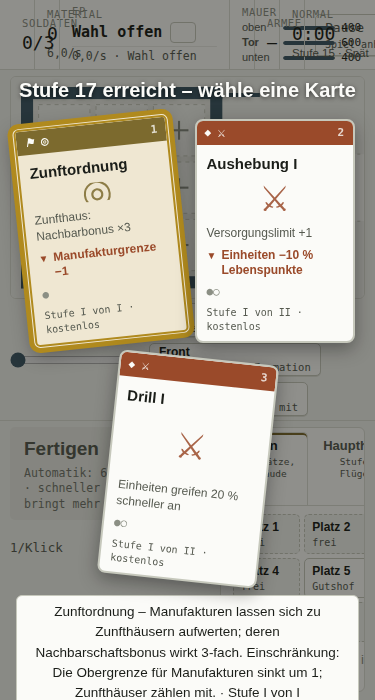
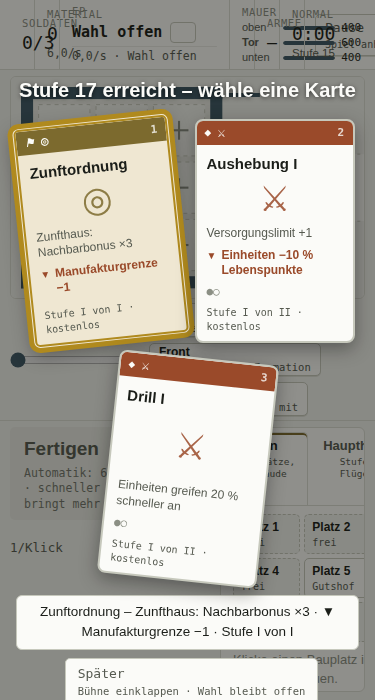
V.1: Platzhalter der Technologiekarten aus der Forschung, einstufige Karten ohne Stufenpunkt, Detailleiste ohne Fließtext, Darstellungstest K10.01
Anforderungen Teil 10/11 abgelegt.

Claude-Session: https://claude.ai/code/session_01RqqApCTqB6RFHL8EkvpfCn

Changed region(s): [[0.0293, 0.87, 0.968, 1.0], [0.088, 0.24, 0.4107, 0.42], [0.9093, 0.06, 0.9973, 0.09]]

diff --git a/stage.js b/stage.js
@@ -98,7 +98,7 @@ const Stage = (() => {
       const foot = document.createElement('span'); foot.className = 'kc-foot';
       const dots = document.createElement('span'); dots.className = 'kc-tier'; dots.setAttribute('aria-hidden', 'true');
       dots.textContent = '●'.repeat(tier) + '○'.repeat(G.tiersOf(o).length - tier);
-      foot.append(dots);
+      if (!karten || G.tiersOf(o).length > 1) foot.append(dots);       // Teil 10 (REQ-K10.01): einstufige Karten zeigen keinen einzelnen Punkt ohne Aussage
       const ex = document.createElement('span'); ex.className = 'expl'; ex.textContent = t('ex.kp.card', { tier: optLimit(o) });
       const dl = drawbackLine(o, tier); let dEl = null;
       if (dl){ dEl = document.createElement('span'); dEl.className = 'kc-drawback'; const di = document.createElement('i'); di.setAttribute('aria-hidden', 'true'); di.textContent = K.nachteilSymbol + '\uFE0E'; const dt = document.createElement('span'); dt.textContent = dl; dEl.append(di, dt); }
@@ -202,6 +202,10 @@ const Stage = (() => {
     const i = hover >= 0 ? hover : focusI, id = d.options[i];
     if (id === undefined){ setText(el.stageDetail, t('kp.stage.hint', { n: d.options.length })); return; }
     const o = G.OPT[id], tier = G.cardTaken(id) + 1;
+    if (G.S.pacing === 'karten'){                                                         // Teil 10 (REQ-K10.01, R1/R2): dieselben Zeilen wie auf der Karte, der Nachteil mit eigenem Zeichen statt als Fließtext
+      const dl = drawbackLine(o, tier);
+      setText(el.stageDetail, [`${cardName(o, tier)} – ${effLine(o, tier)}`, dl && `${K.nachteilSymbol}\uFE0E ${dl}`, optLimit(o)].filter(Boolean).join(' · ')); return;
+    }
     const parts = [`${cardName(o, tier)} – ${cardDesc(o, tier)}`, ...(o.family === 'technologie' ? pathLines(o) : []), o.pfad && (o.pfad.exklusivMit || []).length ? t('kp.card.excludesGeneric') : '', optLimit(o)].filter(Boolean);       // REQ-K2.03: nur die unmittelbare Wirkung, keine Folgekarten
     setText(el.stageDetail, parts.join(' · '));
   }

diff --git a/ui.js b/ui.js
@@ -784,7 +784,7 @@ function boot(){
   setInterval(() => { if (G.S.status === 'running') save(); }, C.AUTOSAVE_MS);
 
   // Schnittstelle für automatisierte Browser-Tests; nur mit ?dev=1 oder ?debug=1 (im öffentlichen Spiel nicht vorhanden, REQ-R.05)
-  if (DEV || DEBUG) window.__kf = { G, C, t, save, session: () => Session.data, sessionReset: () => Session.reset(), unitLog: id => Session.unitLog(id), drawnPositions: () => drawnPositions(), screenToWorld, worldToScreen, requestRender, setLang, startGame, tooltipAudit, explAudit, Tip, Hints, showHint, Cam, benchDraw, Tutorial, TutUI,
+  if (DEV || DEBUG) window.__kf = { G, C, t, tipContent, save, session: () => Session.data, sessionReset: () => Session.reset(), unitLog: id => Session.unitLog(id), drawnPositions: () => drawnPositions(), screenToWorld, worldToScreen, requestRender, setLang, startGame, tooltipAudit, explAudit, Tip, Hints, showHint, Cam, benchDraw, Tutorial, TutUI,
                   selectPlot, selectSection, clearSelection, selectTab, setPaused, Disc, Stage,
                   get plotRects(){ return plotRects; }, get sectionRects(){ return sectionRects; }, get sel(){ return sel; }, get ctxSel(){ return sel || { kind: 'none' }; },
                   get tab(){ return activeTab; }, get paused(){ return paused; }, get lang(){ return lang; } };

diff --git a/panels.js b/panels.js
@@ -464,7 +464,8 @@ function optParams(o, tier){
   if (o.synergie){ p.syn = pct(Math.abs(o.synergie.perCard || 0)); p.max = C.KATEGORIEN.deckel; if (o.synergie.fix) p.e1 = fmtNum(o.synergie.fix.mul); }       // Synergiekarten (Teil 6, REQ-K6.03)
   if (o.pfad && o.pfad.haus) p.gr = C.HAUPTHAUS.fabrikGrenze[o.pfad.haus - 1];       // Stadtrecht und Hofhaltung: Obergrenze für Manufakturen der neuen Stufe (Teil 9, R6)
   if (o.doktrin) Object.assign(p, doktrinParams(o.doktrin));
-  if (o.oeffnetForschung && G.RES[o.oeffnetForschung[0]]){ const rp = researchParams(G.RES[o.oeffnetForschung[0]], 1); for (const k in rp) if (p[k] === undefined) p[k] = rp[k]; }       // Technologiekarten nennen den Wert ihrer Forschung (Teil 9, R6)
+  const opens = (o.pfad || o).oeffnetForschung;
+  if (opens && G.RES[opens[0]]){ const rp = researchParams(G.RES[opens[0]], 1); for (const k in rp) if (p[k] === undefined) p[k] = rp[k]; }       // Technologiekarten nennen den Wert ihrer Forschung (Teil 9, R6)
   p.cap = C.SUPPLY_CAP_MAX;
   for (const e of tr.effect || []){                                                                      // Regeländerungen der Stufen 2 und 3 (Teil 5, REQ-K5.06): neue Schwelle c2
     if (e.stat === 'drumsMin') p.c2 = o.condition.value + e.add;

diff --git a/docs/anforderungen-kartenpfad-10-11.md b/docs/anforderungen-kartenpfad-10-11.md
@@ -1,0 +1,171 @@
+# Anforderungen Branch Kartenpfad, Teil 10 und 11: Nacharbeiten zu Teil 8 und 9, Haupthaus als Nachbar
+
+Stand: 21.10.2026 · Product Owner: Nick · Planung: Cowork · Umsetzung: Claude Code
+
+- Branch `exp/kartenpfad`, Ausgangsstand nach Teil 9.
+- Ablage: `docs/anforderungen-kartenpfad-10-11.md`. Ersetzt `anforderungen-kartenpfad-10.md` vom selben Tag.
+- Kürzel: Teil 10 REQ-K10, Commits `V.<n>`; Teil 11 REQ-K11, Commits `W.<n>`.
+- Teil 11 beginnt nach Teil 10. Die Endmessung von Teil 10 ist die Basismessung von Teil 11. Greift keine Abbruchregel, setzt Claude Code ohne eigene Freigabe fort.
+
+## 1. Ziel und Umfang
+
+**Teil 10** behebt, was der PO nach Teil 8 und 9 beobachtet hat: offene Platzhalter auf Karten, Einheitentooltips ohne Aussage zur Einheit, zu hohe Reichweiten, Fernkämpfer, die weiter vorrücken, statt aus maximaler Reichweite zu kämpfen, ein Rückstau mehrerer Stufenaufstiege.
+
+**Teil 11** gibt den Flügeln des Haupthauses Nachbarschaftsboni. Damit ist die PO-Entscheidung aus Teil 7 (K7.02: „Haupthaus ohne Nachbarschaft“) teilweise aufgehoben. Hypothese aus dem Bericht Teil 7: Das gesperrte Mittelfeld kostet den Fabrikketten Nachbarschaftswert und trägt zu den Patts bei.
+
+Nach diesem Durchgang folgt der Spieltest mit Menschen. Die Spielregeln im Modus `standard` bleiben unverändert (Golden-Test).
+
+**Nicht im Umfang:** weitere Textkürzung und die elf R6-Ausnahmen (erst nach dem Spieltest); Obergrenze der Manufakturen (bleibt 3/4/5, Entscheidung nach dem Spieltest); Druckkurve, Phasenmechanik, Belagerung, Epochen; Nachbarschaftsboni an das Haupthaus; neue Karten oder Einheiten.
+
+## 2. Anforderungen
+
+### Teil 10
+
+#### REQ-K10.01 Offene Platzhalter und leere Zeilen auf der Kartenfläche
+Befund: Wasserrahmen zeigt „Manufaktur → Fabrik: Ertrag +{e1} %“. Vermutete Ursache: Teil 9 hat feste Zahlen nach R6 in Platzhalter umgewandelt; bei Pfadkarten gehört der Wert zur Pfadforschung (`kp.res.wasserrahmen`) und wird nicht eingesetzt. Das Sprach-Audit prüfte mit Beispielwerten.
+- Alle sichtbaren Texte des Modus karten zeigen die tatsächlichen Spielwerte: Wasserrahmen +30 %, Dampfkraft +40 %. Der Wert kommt aus der Forschung. V.0 listet alle betroffenen Schlüssel.
+- Leere Zeilen werden nicht dargestellt. Der Punkt unter der Wirkungszeile der Karte Wasserrahmen entfällt, wenn er keine Information trägt.
+- Prüfen: Unter der Kartenbühne erscheint beim Überfahren einer Karte der alte Langtext mit „Nachteil: …“ als Fließtext (Karte Alles auf die Mitte). Ist die Leiste beabsichtigt, folgt sie R1 und R2; sonst entfällt sie.
+
+Akzeptanz: [Bot] Browser-Test über den echten Darstellungsweg: alle Karten aller Familien und Stufen, alle Tooltips von Gebäuden, Einheiten, Forschung und Flügeln, je Sprache; `{` oder `}` lassen den Test fehlschlagen. [Bot] Bildschirmfotos Wasserrahmen und Dampfkraft. [Mensch] Kein offener Platzhalter in Nicks Partie.
+
+#### REQ-K10.02 Einheitentexte
+Befund: Jeder Einheitentooltip beginnt mit derselben Ausrückregel (`tip.unit.body`).
+- Je Einheit ein Text `unit.<id>.desc` aus zwei Sätzen: (1) was die Einheit ist, (2) Stärken und Schwächen. Budget höchstens 140 Zeichen je Sprache.
+- Die Wertetabelle bleibt: Rolle, Lebenspunkte, Schaden, Reichweite, Kosten. Die Taste steht als eigene Zeile „Taste“; Söldner erhalten die Zeile „Söldner, keine Versorgung“.
+- Die Ausrückregel steht einmal im Reiter Armee (`tip.tab.army` oder eine Zeile im Arbeitsbereich), mit dem Versorgungslimit als Zahl.
+- Stärken und Schwächen folgen aus dem Rang der Einheit bei Lebenspunkten, Schaden, Reichweite, Tempo und Kosten. Widerspricht ein Entwurf aus Anhang A den Werten, gelten die Werte.
+
+Akzeptanz: [Bot] Test: jede Einheit des Modus karten hat einen Text, Budget eingehalten. [Bot] Bericht: Tabelle je Einheit mit Aussage und belegendem Wert. [Bot] Suchtest: `tip.unit.body` erscheint im Modus karten nicht mehr im Einheitentooltip. [Mensch] Nick kann nach dem Lesen sagen, wofür die Einheit gut ist.
+
+#### REQ-K10.03 Reichweiten
+Anker bleibt die heutige Grundreichweite des Werfers R_W. Multiplikatoren:
+
+| Einheit | Teil 8 | Teil 10 |
+|---|---|---|
+| Werfer | 1,0 | 1,0 |
+| Bogenschütze | 1,3 | 1,3 |
+| Armbrustschütze | 1,5 | 1,6 |
+| Katapult | 1,8 | 1,8 [Vorschlag Cowork] |
+| Geschütz | 2,2 | 2,0 |
+
+- V.0 dokumentiert absolut: R_W, Grundreichweite eigener und gegnerischer Türme, Länge einer Lane. Außerdem die Herkunft der im Tooltip angezeigten Geschützreichweite von 231 (welche Ausbauten oder Karten, wie gestapelt).
+- Ausbauten und Karten mit Reichweite behalten ihre Wirkung. Die Reihenfolge der Leiter gilt auf allen Stufen.
+- Gegnerische Bogen- und Armbrustschützen folgen derselben Leiter.
+- Die Bedingung aus K8.06 bleibt: Gegnerische Fernkämpfer reichen nicht über die Grundreichweite der eigenen Türme hinaus. Mit K10.04 wird sie tragend.
+
+Akzeptanz: [Bot] Tabelle der Reichweiten vorher und nachher, absolut und relativ, einschließlich Türme und Lane-Länge. [Bot] Test der Reihenfolge mit allen reichweitenwirksamen Ausbauten und Karten. [Bot] Test: kein gegnerischer Fernkämpfer überschreitet die Grundreichweite der eigenen Türme. [Mensch] Nick empfindet die Reichweiten als passend.
+
+#### REQ-K10.04 Fernkämpfer kämpfen aus maximaler Reichweite
+Gilt für Werfer, Bogenschütze, Armbrustschütze, Katapult und Geschütz.
+- **Halten:** Ein Fernkämpfer bleibt stehen, sobald ein gültiges Ziel (Einheit, Mauer, Tor, Basis) in Reichweite ist, und feuert aus dieser Entfernung.
+- **Nicht vorrücken:** Solange ein Ziel in Reichweite ist, rückt er nicht weiter vor.
+- **Weiterziehen:** Fällt das Ziel und ist kein weiteres in Reichweite, rückt er vor, bis das nächste Ziel in Reichweite kommt.
+- **Kein Zurückweichen:** Nähert sich ein Gegner, hält er seine Stellung.
+- Nahkämpfer bleiben unverändert. Das Verhalten gilt für eigene und gegnerische Fernkämpfer [Vorschlag Cowork].
+
+Folgen, die V.0 und V.4 prüfen und berichten: Formationen trennen sich in vorrückende Nahkampfreihe und haltende Fernkampfreihe; Folgen für Formationsboni (Kriegstrommeln, Schildwall), das Nachrücken in die Mitte (`log.midRefill`) und den Armeezustand in der Ressourcenleiste. Kein Umbau dieser Systeme. Eigene Geschütze bleiben vor der gegnerischen Basis stehen; liegt ihre Reichweite über der Grundreichweite gegnerischer Türme, beschießen sie die Basis unangreifbar. Zu berichten, nicht zu korrigieren („Geschütze gegen Türme“).
+
+Akzeptanz: [Bot] Unit-Test: Ein Fernkämpfer hält im Abstand seiner Reichweite (Toleranz 5 %) zu Einheit, Mauer und Basis, rückt nach dem Fall des Ziels vor und weicht nicht zurück. [Bot] Simulation (Kategorie-Bots, Normal, durchschnitt; Verteidigungs-Bot zusätzlich mit `?druck=hoch`): Siegquote, Patt, Mauerverlust, Dauer vorher/nachher; Ziel: Patt steigt um höchstens 1 Prozentpunkt. [Bot] Kurze Bildfolge einer Lane mit haltenden Fernkämpfern. [Mensch] Nick sieht Fernkämpfer aus maximaler Reichweite kämpfen.
+
+#### REQ-K10.05 Rückstau der Stufenaufstiege (Experiment)
+Befund: Die Kartenbühne meldete „5 weitere Stufenaufstiege“, also sechs offene Wahlen hintereinander.
+
+Schritt 1, Diagnose (V.0): Wann entsteht der Rückstau, welche EP-Quelle treibt ihn? Greifen Übertragsgrenze und Mindestabstand wie in K8.02? Kandidaten: mehrere Stufen in einem Takt durch einen EP-Schub (abgewehrte Welle, Basisschaden, Freihandel, Lagerzehnt) oder der Übertrag wird nur einmal je Takt gekappt. Ein Programmfehler wird in allen Armen behoben; ein EP-Schub löst dann höchstens einen Aufstieg aus.
+
+Schritt 2, Experiment (V.5). Der PO gibt Balancing-Werte frei, auch den Mindestabstand. Arme, je 50 Partien je Feld, gleiche Seeds:
+
+| Arm | Inhalt |
+|---|---|
+| A | Steilere Kostenkurve: Kosten je Stufe wachsen geometrisch; Faktor kalibrieren |
+| B | Dynamischer Anstieg: Wird eine Stufe schneller als ein Referenzabstand erreicht, steigen die Kosten der nächsten Stufe zusätzlich, begrenzt auf einen Höchstfaktor |
+| C | Arm A mit Mindestabstand 40 s statt 45 s |
+| D | Arm B mit Mindestabstand 40 s statt 45 s |
+
+Auswahlregel: Gewählt wird der Arm, der alle Kriterien erfüllt; erfüllen mehrere, gewinnt der mit den wenigsten Parametern; erfüllt keiner, gilt die Abbruchregel.
+
+Akzeptanz: [Bot] Befund zur Ursache im Bericht. [Bot] In mindestens 90 % der Partien nie mehr als eine offene Wahl, in keiner Partie mehr als zwei (alle Bots, Normal, durchschnitt). [Bot] Bot ohne Kategorie, Normal, durchschnitt: 12–16 Wahlen, 13–17 min. [Bot] Profil „aktiv“ mehr Wahlen je Minute als „durchschnitt“, dieses mehr als „gelegentlich“. [Bot] Variationskoeffizient der Abstände zwischen Wahlen je Partie im Median mindestens 0,25. [Bot] Tabelle aller Arme im Bericht, auch der verworfenen. [Bot] Unit-Test: Ein EP-Schub über mehrere Stufen erzeugt genau einen Aufstieg. [Mensch] Kein Rückstau mehrerer Wahlen in Nicks Partie.
+
+#### REQ-K10.06 Stabiler Browser-Test
+Befund: `tests/browser-check.mjs` schwankt in „Abschied 1“ und „Abschied 2“. Ursache klären; Wartezeiten nach Uhr durch Wartebedingungen auf einen Zustand ersetzen. Akzeptanz: [Bot] Zehn aufeinanderfolgende Läufe grün, je Sprache.
+
+#### REQ-K10.07 Abschluss Teil 10
+Messung wie in Teil 8 nach V.6 (zugleich Basismessung von Teil 11). Bericht `docs/bericht-kartenpfad-10.md`; Stand in `docs/STAND-kartenpfad.md`. Spielstand-Version erhöhen, falls sich das Format ändert. Akzeptanz: [Bot] Golden-Test, Unit-Tests und Browser-Prüfpunkte grün.
+
+### Teil 11
+
+#### REQ-K11.01 Nachbarschaftsboni der Flügel
+- **Nachbarn:** Jeder gewählte Flügel gibt einen Bonus an die orthogonal angrenzenden Bauplätze des Mittelfelds. Mit Querverbindung zählen auch die diagonalen.
+- **Grenze:** Je Flügel profitieren höchstens zwei Gebäude. Querverbindung erweitert den Kreis, nicht diese Grenze.
+- **Bauordnung** multipliziert den Bonus wie alle anderen Nachbarschaftsboni.
+- **Kein Bonus an das Haupthaus.** Der Gutshof hat keinen Flügel. Die beiden Flügel der Residenz wirken unabhängig voneinander.
+- **Kein Bonus an das ersetzte Gebäude.**
+- **Datenmodell:** Der Bonus ist eine Eigenschaft des Flügels in den Daten. Künftige Epochen ergänzen neue Flügel ohne Sonderlogik.
+
+Vorgabewerte [Vorschlag Cowork, Kalibrierung in W.3/W.4]:
+
+| Flügel | Ersetzt teilweise | Bonus an angrenzende | Vorgabe |
+|---|---|---|---|
+| Schatzkammer | Kontor | Manufakturen: Ertrag | +10 % je Manufaktur |
+| Bibliothek | Universität | Manufakturen: Forschungszeit | −5 % je Manufaktur |
+| Zeughaus | Schmiede | Kaserne: Lebenspunkte neuer Einheiten | +10 % |
+| Kanzlei | Universität (Kartenzahl) | alle Gebäude: Kosten und Dauer der Aufwertung zur Variante | −15 % |
+
+Kein Flügel erzeugt EP. Akzeptanz: [Bot] Tests je Flügel: Bonus, Grenze von zwei Gebäuden, Querverbindung, Bauordnung, kein Bonus an Haupthaus und Gutshof. [Bot] Test: Boni über die Flügeldaten definiert; ein neuer Testflügel ohne Codeänderung.
+
+#### REQ-K11.02 Bot-Regeln
+Bots stellen das Gebäude, das ihr Flügel stärkt, bevorzugt neben das Haupthaus. Flügelwahl der Bots wie Teil 7. Für K11.04 lässt sich der erste Flügel erzwingen (`?fluegel=<id>`). Akzeptanz: [Bot] Test der Platzierungsregel; Bericht über die Belegung der Nachbarplätze am Partieende je Bot.
+
+#### REQ-K11.03 Anzeige
+Tooltip des Haupthauses und Reiter Haupthaus nennen je Flügel Bonus und begünstigte Plätze. Beim Überfahren des Haupthauses werden die begünstigten Plätze hervorgehoben. Die Nachbarschaftszeilen (`nb.gets`, `nb.gives`) führen den Flügel als Geber. Texte nach R3, Platzhalter mit echten Werten. Akzeptanz: [Bot] Bildschirmfotos Rathaus mit einem Flügel, Residenz mit zwei Flügeln, je mit Hervorhebung. [Mensch] Nick erkennt ohne Erklärung, welche Plätze ein Flügel stärkt.
+
+#### REQ-K11.04 Wirkung und Kalibrierung
+Basis ist die Endmessung von Teil 10. Akzeptanz (alle [Bot]): Nachbarschaftswert der Manufakturen beim Wirtschafts-Bot am Partieende im Median ≥ 2,5 (Teil 6: 3,60; Teil 7: 1,44). Patt-Quote ohne Schalter (Bot ohne Kategorie, alle Felder) ≤ 1,5 % (Teil 7: 2,4 %); mit `?druck=hoch` ≤ 3 % (Teil 7: 4,0 %); liegt die Basis schon darunter, darf sie nicht steigen. Siegquote Wirtschafts-Bot, Normal, durchschnitt ≥ 96 % (Teil 7: 90 %). Bot ohne Kategorie: 12–16 Wahlen, 13–17 min bleiben erfüllt. Kein dominanter Flügel: Paarvergleich mit erzwungenem ersten Flügel, Spannweite der Siegquoten je Bot ≤ 10 Prozentpunkte; kein Flügel ist für alle vier Bots die schnellste Wahl.
+
+#### REQ-K11.05 Abschluss Teil 11 und Vorbereitung des Spieltests
+Bericht `docs/bericht-kartenpfad-11.md` mit Vorher-nachher-Tabellen. Testleitfaden `docs/testleitfaden-kartenpfad-11.md` (Teil 7 bis 11; Fragen zu Kartenwahl-Rhythmus, Einheitentexten und Reichweiten, Verhalten der Fernkämpfer, Flügelwahl und Platzierung, Lesbarkeit bei 375 px). `docs/texte-kartenpfad.md` neu erzeugen. Privater Testbuild. Akzeptanz: [Bot] Golden-Test, Unit-Tests und Browser-Prüfpunkte grün.
+
+## 3. Entscheidungen des PO
+1. Technologiekarten zeigen den tatsächlichen Wert (Wasserrahmen: +30 %).
+2. Einheitentooltips: ein Satz zur Einheit, einer zu Stärken und Schwächen; die Ausrückregel entfällt dort.
+3. Reichweiten: Werfer bleibt Anker, nur die Multiplikatoren sinken (1,0 / 1,3 / 1,6 / 2,0).
+4. Fernkämpfer kämpfen aus maximaler Reichweite und rücken nicht weiter vor.
+5. Gegen den Rückstau darf mit Balancing-Werten experimentiert werden: dynamischer Anstieg der EP je Stufe und/oder Mindestabstand 40 s.
+6. Flügel des Haupthauses erbringen Nachbarschaftsboni.
+7. Diese Runde umfasst Teil 10 und Teil 11. Danach folgt der Spieltest.
+8. Weitere Textkürzung und die R6-Ausnahmen erst nach dem Spieltest.
+
+Vorschläge von Cowork, die der PO noch bestätigen kann: Katapult 1,8; Fernkampfverhalten auch für den Gegner; Zielwerte für Rückstau und Variationskoeffizient (K10.05); Flügelboni und Grenze von zwei Gebäuden (K11.01); Zielwerte K11.04.
+
+## 4. Inkrementplan mit Abbruchregel
+Teil 10: V.0 Diagnose (K10.01, K10.03–K10.05) · V.1 Platzhalter, leere Zeilen, Leiste, Darstellungstest · V.2 Einheitentexte · V.3 Reichweiten · V.4 Fernkampfverhalten · V.5 Rückstau-Experiment, Auswahl des Arms · V.6 Browser-Test · V.7 Messung, Bericht.
+Teil 11: W.1 Boni, Datenmodell · W.2 Bot-Regeln, `?fluegel` · W.3 Anzeige · W.4 Messung, Kalibrierung, Flügelvergleich · W.5 Bericht, Testleitfaden, Testbuild.
+
+Abbruchregeln:
+- *Fernkampfverhalten (V.4):* Steigt die Patt-Quote um mehr als 1 Prozentpunkt, wird das berichtet und nicht über andere Hebel wegbalanciert; das Verhalten bleibt aktiv, der PO entscheidet. Brechen Formationsboni funktional, wird das berichtet; kein Umbau.
+- *Rückstau (V.5):* Erfüllt kein Arm alle Kriterien, wählt Claude Code vorläufig den Arm mit dem geringsten Rückstau, markiert die Wahl als vorläufig und setzt mit Teil 11 fort. Der Mindestabstand sinkt nicht unter 40 s.
+- *Kalibrierung (W.4):* Erreicht die Patt-Quote nach höchstens drei Kalibrierschritten ihr Ziel nicht, stoppt die Kalibrierung; Bericht mit Zahlen. Die Obergrenze wird nicht verändert.
+- *Flügelvergleich (W.4):* Ist ein Flügel für alle Bots dominant und lässt sich das nicht über seinen Wert beheben, wird das berichtet.
+- *Immer:* Ein roter Golden-Test schließt jedes Inkrement aus.
+
+## 5. Schwache Annahmen und offene Punkte
+1. Platzhalter: Ursache aus dem Screenshot erschlossen; V.0 bestätigt sie.
+2. Reichweite 231: Herkunft unklar; enthält sie Ausbauten, liegt die Grundreichweite niedriger als angenommen.
+3. Arm B koppelt die Kosten an den Zeitabstand; zu stark eingestellt liefert er Karten im festen Takt (Zeitautomatismus). Die Schwelle 0,25 ist gesetzt, nicht hergeleitet.
+4. Fernkampfverhalten kann Patts erhöhen; gegen Mauern hängt die Verteidigung an der Bedingung aus K10.03.
+5. Flügelboni sind Schätzungen; die Kanzlei könnte die schwächste Wahl sein.
+6. Bots platzieren nach Regeln; ob Menschen die Plätze neben dem Haupthaus nutzen, zeigt erst der Spieltest.
+7. Der Bericht Teil 8 lag Cowork nicht vor.
+
+## Anhang A: Entwürfe der Einheitentexte (gegen die Werte prüfen)
+| Einheit | Entwurf |
+|---|---|
+| Läufer | Leichter Nahkämpfer, billig und schnell aufgestellt. Stark in der Masse, einzeln rasch geschlagen. |
+| Werfer | Wirft aus der zweiten Reihe. Trifft auf Abstand, hält im Nahkampf wenig aus. |
+| Schwertkämpfer | Nahkämpfer mit Eisenwaffen. Mehr Schaden und Lebenspunkte als der Läufer, dafür teurer. |
+| Schildträger | Zäher Nahkämpfer für die erste Reihe. Hält viel aus, ist langsam und bremst die ganze Armee. |
+| Bogenschütze | Fernkämpfer mit größerer Reichweite als der Werfer. Wirksam hinter einer Nahkampfreihe, ohne Schutz verwundbar. |
+| Armbrustschütze | Fernkämpfer mit hoher Durchschlagskraft. Reicht weiter als der Bogen, kostet mehr. |
+| Reiter | Schneller Nahkämpfer. Erreicht die Front als Erster, ist teuer. |
+| Katapult | Wurfmaschine mit großer Reichweite. Stark gegen Formationen, schwach auf kurze Distanz. |
+| Geschütz | Schwere Waffe der Gießerei. Größte Reichweite und dreifacher Schaden an der Basis; langsam und im Nahkampf wehrlos. |
